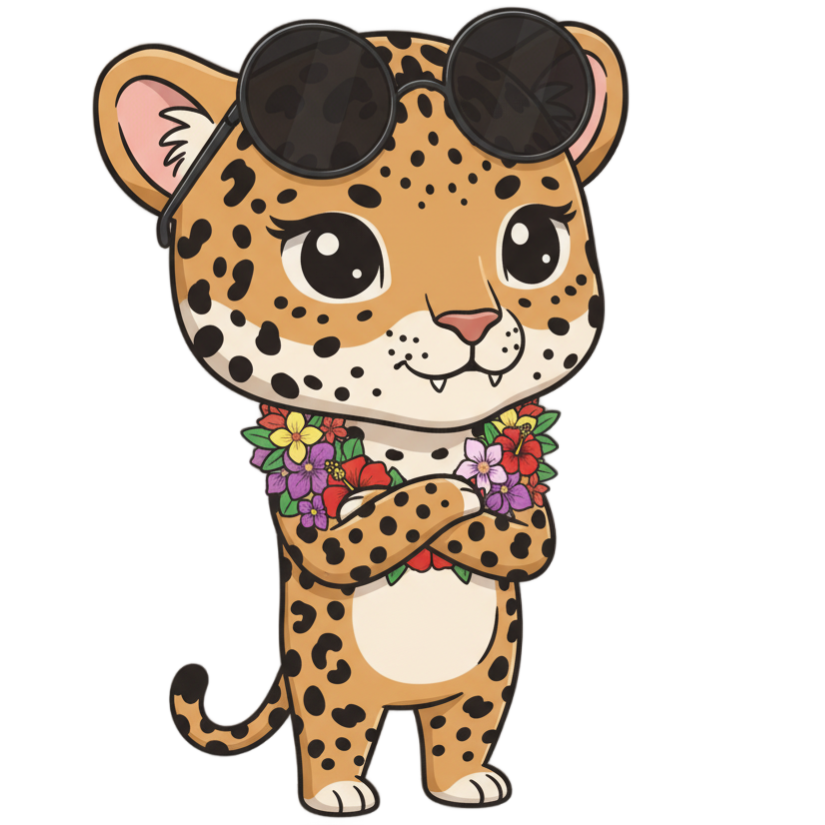
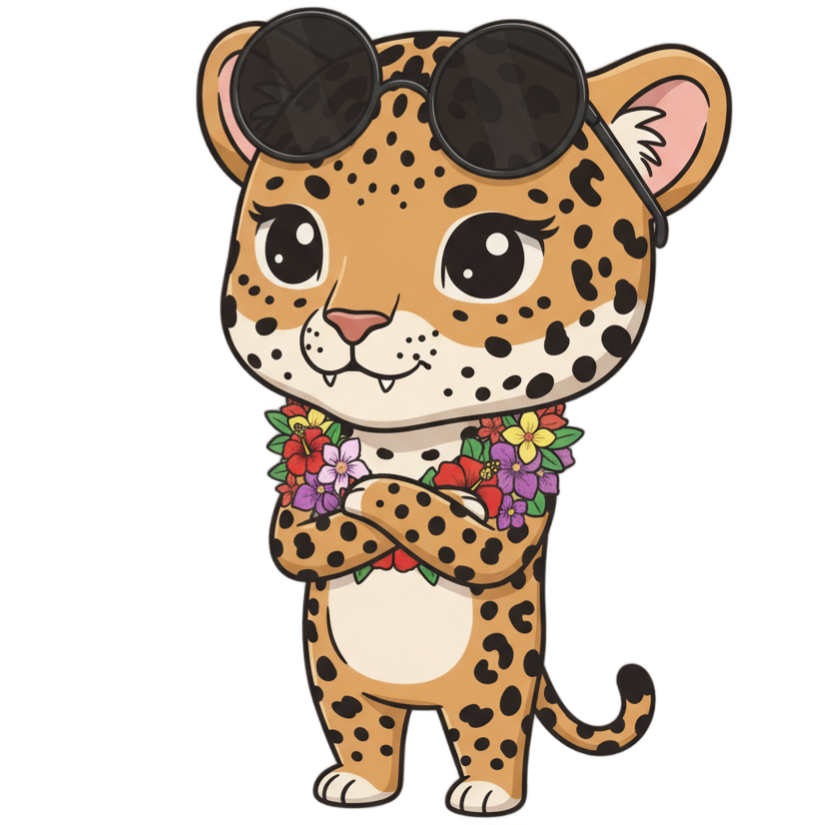
Refactor code structure for improved readability and maintainability

diff --git a/src/app/components/materias.component.ts b/src/app/components/materias.component.ts
@@ -10,37 +10,35 @@ import { MusicService } from '../services/music.service';
     standalone: true,
     imports: [CommonModule],
     template: `
-        <div class="max-w-4xl mx-auto">
-            <button (click)="volverAGrados()" class="mb-6 flex items-center text-indigo-600 hover:text-indigo-800 transition-colors">
-                <svg xmlns="http://www.w3.org/2000/svg" class="h-6 w-6 mr-2" fill="none" viewBox="0 0 24 24" stroke="currentColor">
-                    <path stroke-linecap="round" stroke-linejoin="round" stroke-width="2" d="M10 19l-7-7m0 0l7-7m-7 7h18"></path>
-                </svg>
-                Volver a grados
-            </button>
+        <button (click)="volverAGrados()" class="mb-6 flex items-center text-indigo-600 hover:text-indigo-800 transition-colors">
+            <svg xmlns="http://www.w3.org/2000/svg" class="h-6 w-6 mr-2" fill="none" viewBox="0 0 24 24" stroke="currentColor">
+                <path stroke-linecap="round" stroke-linejoin="round" stroke-width="2" d="M10 19l-7-7m0 0l7-7m-7 7h18"></path>
+            </svg>
+            Volver a grados
+        </button>
 
-            <h2 class="titulo text-4xl mb-8 text-center text-indigo-700 font-extrabold drop-shadow-lg">Materias de {{ gameService.gradoSeleccionado() }}° Grado</h2>
+        <h2 class="titulo text-4xl mb-8 text-center text-indigo-700 font-extrabold drop-shadow-lg">Materias de {{ gameService.gradoSeleccionado() }}° Grado</h2>
 
-            <div class="puntaje-grado-container mb-6">
-                <div class="puntaje-grado-card">
-                    <span class="puntaje-label">Puntaje Total del Grado:</span>
-                    <span class="puntaje-valor">{{ puntajeGrado() }} puntos</span>
+        <div class="puntaje-grado-container mb-6">
+            <div class="puntaje-grado-card">
+                <span class="puntaje-label">Puntaje Total del Grado:</span>
+                <span class="puntaje-valor">{{ puntajeGrado() }} puntos</span>
+            </div>
+        </div>
+
+        <div class="grid grid-cols-1 sm:grid-cols-2 lg:grid-cols-3 gap-6">
+            @for (materia of materias; track materia.nombre) {
+                <div class="card bg-white rounded-xl p-6 cursor-pointer transition-all hover:scale-105 relative" (click)="seleccionarMateria(materia.nombre)">
+                    <img [src]="materia.imagen" class="mx-auto mb-4 materia-icon" [alt]="getMateriaLabel(materia.nombre)" />
+                    <h3 class="text-xl font-bold mb-2 text-center">
+                        {{ getMateriaLabel(materia.nombre) }}
+                    </h3>
+                    <p class="text-gray-700 text-center mb-2">
+                        Puntaje:
+                        <span class="font-bold">{{ obtenerPuntajeMateria(materia.nombre) }}</span>
+                    </p>
                 </div>
-            </div>
-
-            <div class="grid grid-cols-1 sm:grid-cols-2 lg:grid-cols-3 gap-6">
-                @for (materia of materias; track materia.nombre) {
-                    <div class="card bg-white rounded-xl p-6 cursor-pointer transition-all hover:scale-105 relative" (click)="seleccionarMateria(materia.nombre)">
-                        <img [src]="materia.imagen" class="mx-auto mb-4 materia-icon" [alt]="getMateriaLabel(materia.nombre)" />
-                        <h3 class="text-xl font-bold mb-2 text-center">
-                            {{ getMateriaLabel(materia.nombre) }}
-                        </h3>
-                        <p class="text-gray-700 text-center mb-2">
-                            Puntaje:
-                            <span class="font-bold">{{ obtenerPuntajeMateria(materia.nombre) }}</span>
-                        </p>
-                    </div>
-                }
-            </div>
+            }
         </div>
     `,
     styles: [
@@ -99,7 +97,6 @@ import { MusicService } from '../services/music.service';
             }
             :host {
                 display: block;
-                padding: 3rem 1rem;
             }
         `,
     ],
@@ -134,6 +131,8 @@ export class MateriasComponent {
                 });
             }
         });
+
+        this.gameService.mascotaAccionActual.set('presentacion');
     }
 
     // Cargar puntajes de todas las materias de forma asíncrona
@@ -145,7 +144,6 @@ export class MateriasComponent {
             const competenciasMateria = all.filter((c) => c.materia === materia.nombre);
             const puntajeMateria = competenciasMateria.reduce((sum, c) => sum + c.puntaje * 10, 0);
             puntajes.set(materia.nombre, puntajeMateria);
-
         }
 
         this.puntajesPorMateria.set(puntajes);

diff --git a/src/app/app.ts b/src/app/app.ts
@@ -8,6 +8,7 @@ import { NavigationService } from './services/navigation.service';
 import { MusicService } from './services/music.service';
 import { NgIcon, provideIcons } from '@ng-icons/core';
 import { matMusicNote, matPause, matPauseCircleFilled } from '@ng-icons/material-icons/baseline';
+import { GameService } from './services/game.service';
 
 @Component({
     selector: 'app-root',
@@ -17,11 +18,8 @@ import { matMusicNote, matPause, matPauseCircleFilled } from '@ng-icons/material
         <!-- Canvas de fondo animado -->
         <app-background-canvas />
 
-        <!-- Botón de toggle de música -->
-
-        <!-- Mostrar vista según el estado de navegación -->
         <main>
-            <div>
+            <div class="cuerpo-juego">
                 @switch (navigationService.currentView()) {
                     @case ('login') {
                         <app-login />
@@ -34,8 +32,8 @@ import { matMusicNote, matPause, matPauseCircleFilled } from '@ng-icons/material
                     }
                 }
             </div>
-            <img src="/img/otros/jaguari-presentacion.png" alt="" class="presentacion-01" />
-            <img src="/img/otros/llami-presentacion.png" alt="" class="presentacion-02" />
+            <img [src]="'/img/otros/llami-' + gameService.mascotaAccionActual() + '.png'" alt="" class="presentacion-01" />
+            <img src="/img/otros/jaguari-presentacion.png" alt="" class="presentacion-02" />
             <button class="music-toggle" (click)="toggleMusic()" [class.playing]="musicService.isPlaying()" title="Toggle música">
                 <ng-icon name="matMusicNote" class="icon music-icon"></ng-icon>
                 <ng-icon name="matPause" class="icon pause-icon"></ng-icon>
@@ -58,15 +56,6 @@ import { matMusicNote, matPause, matPauseCircleFilled } from '@ng-icons/material
                 backdrop-filter: blur(10px);
                 position: relative;
                 z-index: 1;
-                div {
-                    background: rgba(255, 255, 255, 0.95);
-                    width: 100%;
-                    height: 100%;
-                    position: relative;
-                    display: flex;
-                    flex-direction: column;
-                    overflow-y: auto;
-                }
             }
             img {
                 // height: 500px;
@@ -78,7 +67,7 @@ import { matMusicNote, matPause, matPauseCircleFilled } from '@ng-icons/material
                 display: none;
                 &.presentacion-01 {
                     left: 0;
-                    transform: translateX(-74%);
+                    transform: translateX(-85%);
                 }
                 &.presentacion-02 {
                     right: 0;
@@ -89,8 +78,8 @@ import { matMusicNote, matPause, matPauseCircleFilled } from '@ng-icons/material
             // Botón de toggle de música
             .music-toggle {
                 position: absolute;
-                bottom: 1rem;
-                left: 1rem;
+                bottom: 2rem;
+                left: 2rem;
                 z-index: 999;
                 width: 50px;
                 height: 50px;
@@ -157,6 +146,17 @@ import { matMusicNote, matPause, matPauseCircleFilled } from '@ng-icons/material
             }
         }
 
+        .cuerpo-juego {
+            background: rgba(255, 255, 255, 0.95);
+            width: 100%;
+            height: 100%;
+            position: relative;
+            display: flex;
+            flex-direction: column;
+            overflow-y: auto;
+            padding: 3rem 1rem;
+        }
+
         @media (min-width: 720px) {
             :host {
                 padding: 3rem 0;
@@ -165,6 +165,9 @@ import { matMusicNote, matPause, matPauseCircleFilled } from '@ng-icons/material
                 box-shadow: 0 4px 6px rgba(0, 0, 0, 0.1);
                 border-radius: 2rem;
                 border: 4px solid var(--primary);
+            }
+            .cuerpo-juego {
+                padding: 3rem 2rem;
             }
         }
         @media (min-width: 992px) {
@@ -207,6 +210,7 @@ import { matMusicNote, matPause, matPauseCircleFilled } from '@ng-icons/material
     `,
 })
 export class App implements AfterViewInit, OnDestroy {
+    readonly gameService = inject(GameService);
     protected navigationService = inject(NavigationService);
     protected musicService = inject(MusicService);
     private resizeListener!: () => void;

diff --git a/src/app/components/competencias.component.ts b/src/app/components/competencias.component.ts
@@ -95,7 +95,6 @@ import { CompetenciasSupabaseService } from '../services/competencias-supabase.s
         `
             :host {
                 display: block;
-                padding: 3rem 1rem;
             }
 
             .competencias-timeline {
@@ -269,9 +268,7 @@ import { CompetenciasSupabaseService } from '../services/competencias-supabase.s
 })
 export class CompetenciasComponent {
     gameService = inject(GameService);
-    private toastService = inject(ToastService);
     private userService = inject(UserService);
-    private competenciasService = inject(CompetenciasSupabaseService);
     private musicService = inject(MusicService);
 
     // Signal para almacenar registros de competencias
@@ -296,6 +293,15 @@ export class CompetenciasComponent {
             if (grado && materia && competencias.length > 0) {
                 untracked(() => {
                     this.cargarRegistrosCompetencias(grado, materia, competencias);
+                });
+            }
+        });
+
+        effect(() => {
+            const materia = this.gameService.materiaSeleccionada();
+            if (materia) {
+                untracked(() => {
+                    this.gameService.mascotaAccionActual.set(materia.toLowerCase());
                 });
             }
         });

diff --git a/src/app/services/game.service.ts b/src/app/services/game.service.ts
@@ -45,7 +45,7 @@ export interface RespuestaUsuario {
 export class GameService {
     // Estado de la vista actual
     vistaActual = signal<VistaJuego>('seleccion-grados');
-
+    mascotaAccionActual = signal<string>('presentacion');
     // Grado seleccionado (1-6)
     gradoSeleccionado = signal<number | null>(null);
 

diff --git a/src/app/pages/home/home.ts b/src/app/pages/home/home.ts
@@ -95,7 +95,6 @@ import { ResultadosComponent } from '../../components/resultados.component';
                 margin: 0 auto;
                 position: relative;
                 z-index: 10;
-                padding: 3rem 1rem;
             }
 
             .header {

diff --git a/src/app/components/juego.component.ts b/src/app/components/juego.component.ts
@@ -87,7 +87,6 @@ import { UserService } from '../services/user.service';
         `
             :host {
                 display: block;
-                padding: 3rem 1rem;
             }
             .opcion-btn {
                 text-align: left;
